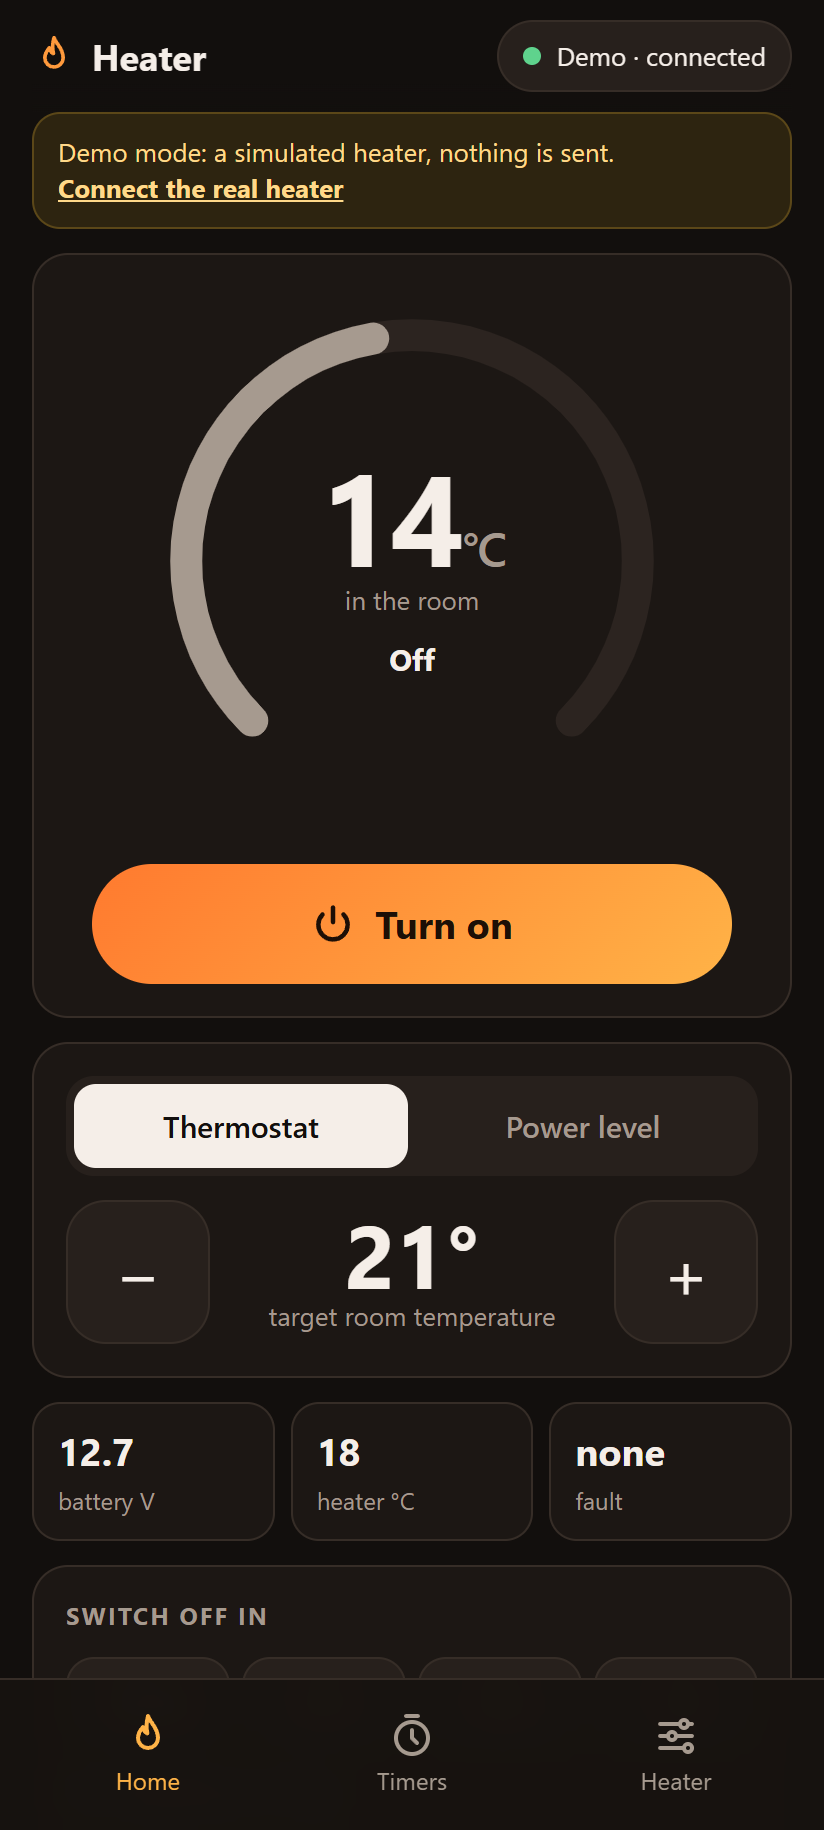
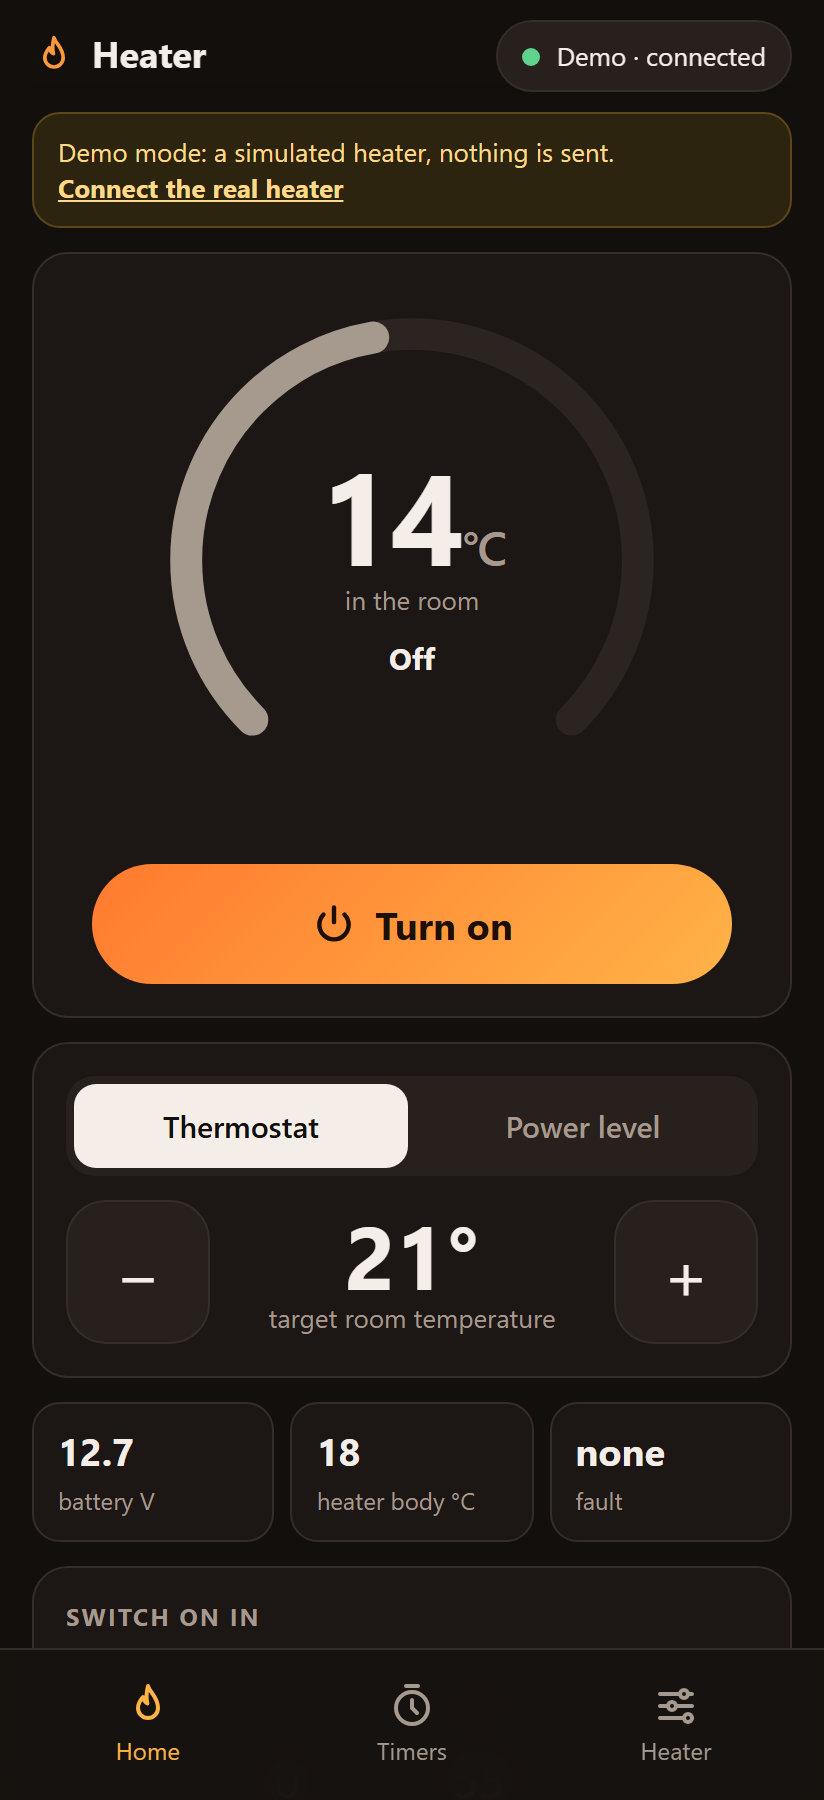
README: v2.2 section (on/off timers, Switch on/off in) + new demo-mode screenshots
Claude-Session: https://claude.ai/code/session_014tx28vQZXMffVh5sKh58NZ

diff --git a/README.md b/README.md
@@ -14,19 +14,27 @@ screen off): [download the APK from Releases](../../releases/latest)**
 > The authors, contributors and **the publisher** (GitHub "zenfortv") take no responsibility for any damage. Read the [safety checklist](#safety-checklist) first.
 
 <p>
-  <img src="docs/phone.png" alt="Phone view: room temperature, Turn on button, thermostat" width="260">
-  &nbsp;
-  <img src="docs/desktop.png" alt="Wide view: home, timers and heater settings side by side" width="520">
+  <img src="docs/phone.png" alt="Phone view: room temperature, Turn on button, thermostat" width="200">
+  <img src="docs/timers.png" alt="Timers: alarm-clock list with on and off timers" width="200">
+  <img src="docs/timer-off.png" alt="Timer sheet with the Turn on / Turn off switch" width="200">
+  <img src="docs/switch-on-in.png" alt="Home: Switch on in 1 h countdown" width="200">
 </p>
 
 *(screenshots from the built-in demo mode)*
+
+### New in v2.2
+- **Timers can turn the heater on or off.** Each timer has a **Turn on / Turn off** switch: for example on at 06:45
+  for 45 minutes on weekdays, and off at 23:30 every day.
+- **Home: "Switch on/off in".** One countdown wheel: if the heater is running it switches it **off** after the time,
+  if it is off it switches it **on**. Without a connected heater the button is locked and reads **Not connected**.
+- Faster start-up animation in the Android app.
 
 ## How to use it
 1. On an **Android phone, open the link above in Chrome**. iPhone Safari has no Web Bluetooth, so it won't work there.
 2. Chrome menu ⋮ → **Add to Home screen**. From then on it opens like a normal app, and it also works offline.
 3. Switch the heater on at the mains and **close the AirHeaterBLE app**. The heater accepts only one Bluetooth connection at a time.
 4. Tap **Connect via Bluetooth** and pick your heater from the list (named like `BYD-…`).
-5. Tap **Turn on**. Use the thermostat (8–36 °C) or the power level (1–10), and **Switch off in** 30 min / 1 h / 2 h / 4 h.
+5. Tap **Turn on**. Use the thermostat (8–36 °C) or the power level (1–10), and **Switch off in** (or **Switch on in** when it's off) 30 min / 45 min / 1 h / 1 h 30, or any time on the wheel.
 
 Each morning: open the home-screen icon, tap Connect, then tap Turn on. That takes about 5 seconds, and you need to be within Bluetooth range (~10 m).
 
@@ -34,9 +42,10 @@ Not sure yet? Tap **Try the demo**. It runs a simulated heater and sends nothing
 
 ### What the tabs do
 - **Home**: power, thermostat or power level, room and heater temperature, battery voltage, faults explained in plain words.
-- **Timers**: like a phone alarm clock. Pick the time on a wheel, how long it stays on, and optionally the days it repeats.
-  5 minutes before it switches off you can keep it warm **+10 min, +30 min, +1 h** or **until you stop it**
-  (a notification in the Android app). Home has a "Switch off in" wheel for the heater that is already on.
+- **Timers**: like a phone alarm clock. Pick **Turn on** or **Turn off**, the time on a wheel, how long it stays on
+  (Turn on only), and optionally the days it repeats. 5 minutes before it switches off you can keep it warm
+  **+10 min, +30 min, +1 h** or **until you stop it** (a notification in the Android app). Home has a
+  "Switch on/off in" wheel: off if the heater runs, on if it is off, locked while no heater is connected.
   In direct Bluetooth mode timers only run *while the page is open*.
 - **Heater**: the heater's **built-in daily timer** (start time + run minutes). It is stored inside the heater, so it fires with no phone around (still being tested, see below). Also the heater clock, auto start/stop and safety auto-off.
 
